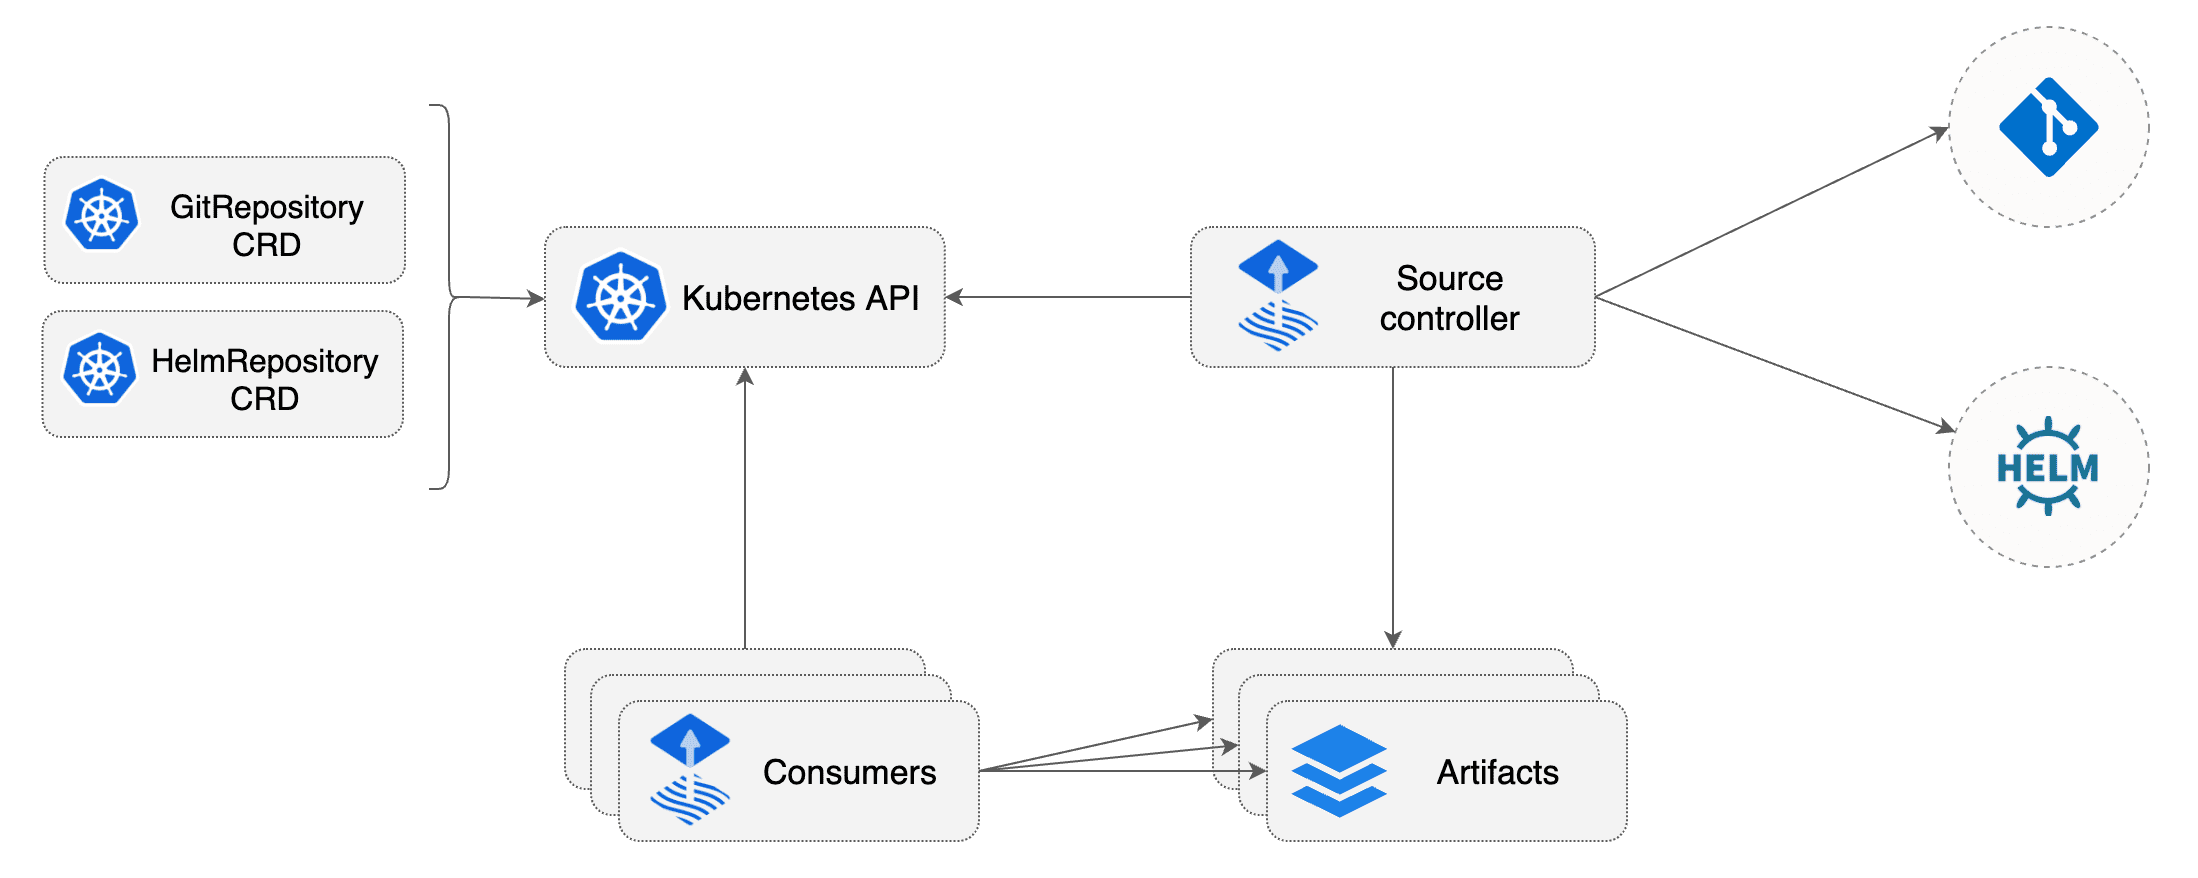
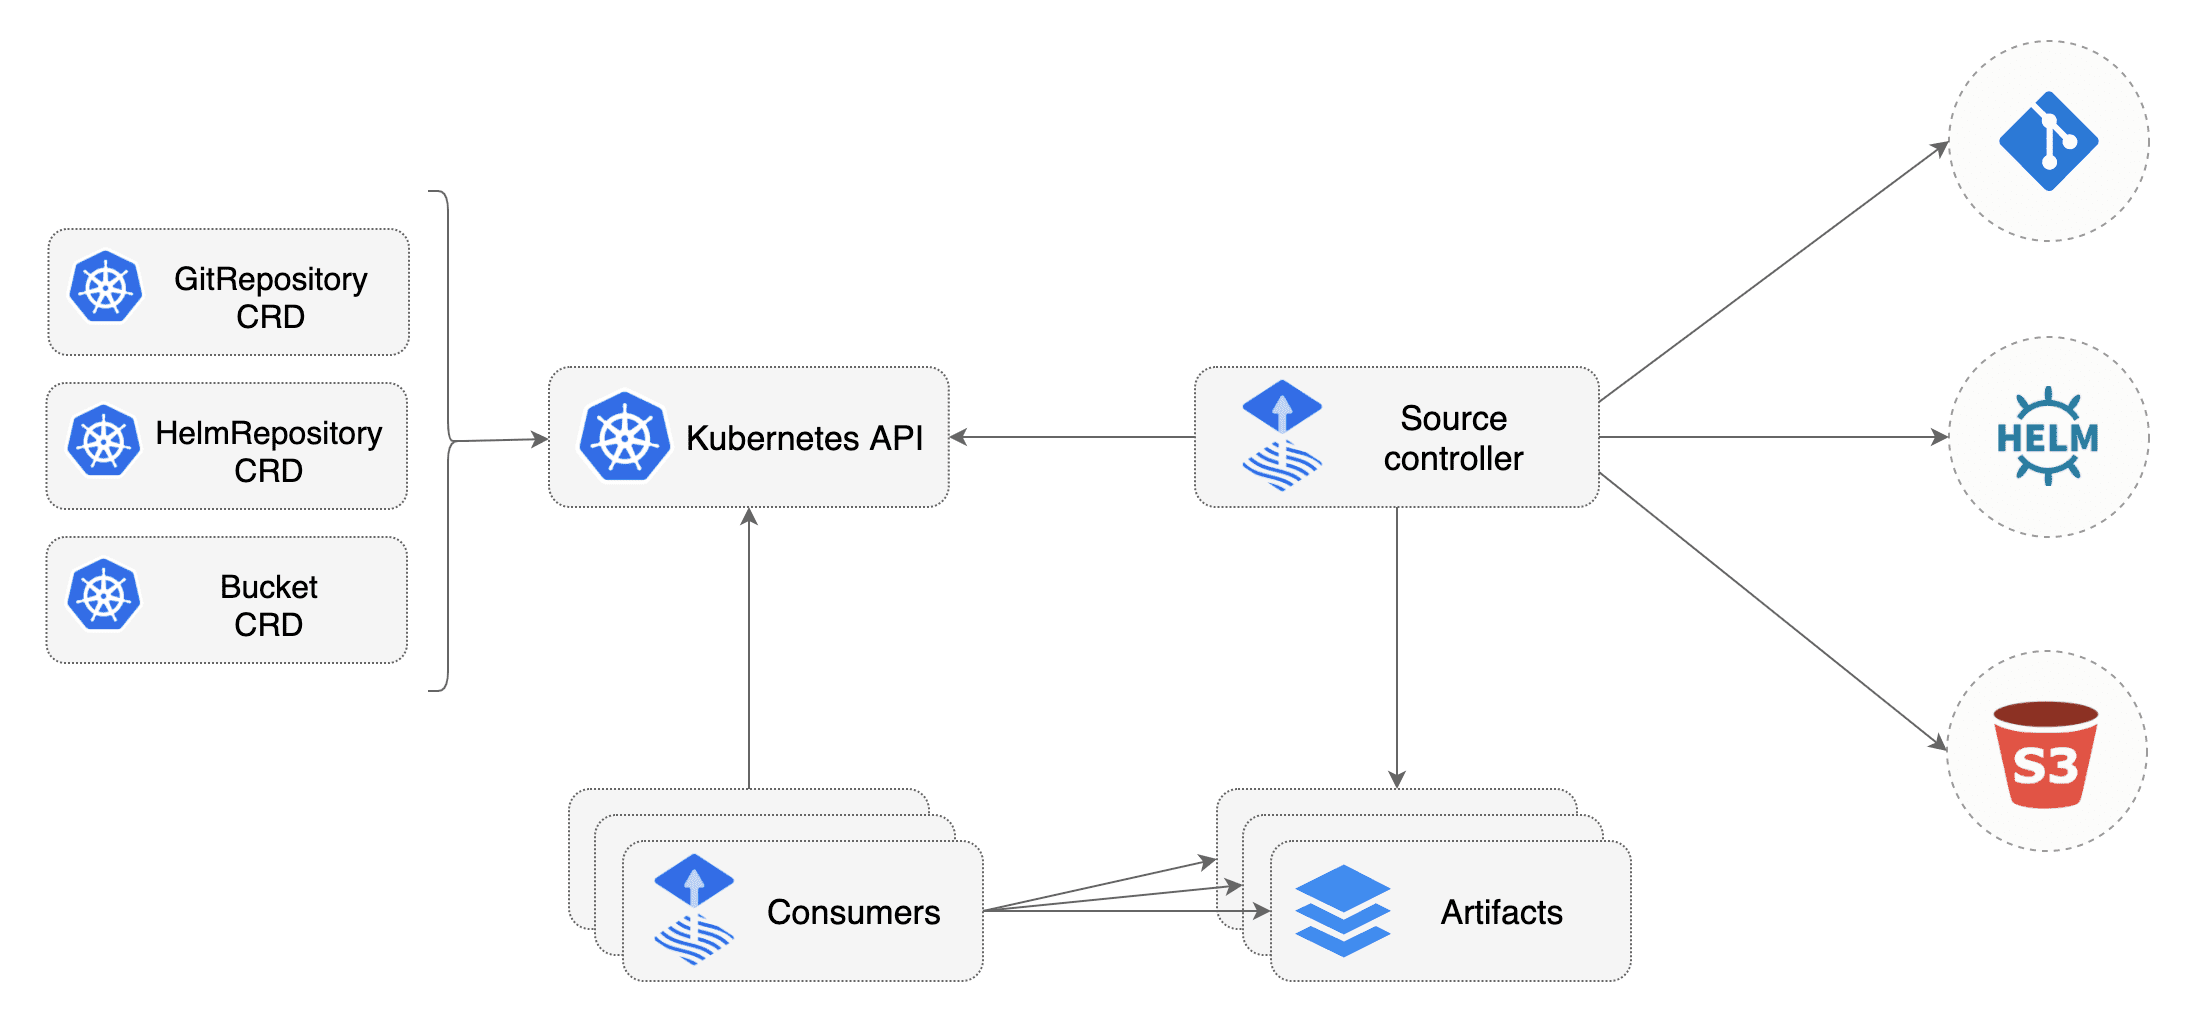
Add Bucket type to source API spec

diff --git a/docs/spec/v1alpha1/buckets.md b/docs/spec/v1alpha1/buckets.md
@@ -1,0 +1,232 @@
+# Object storage buckets
+
+The `Bucket` API defines a source for artifacts coming from S3 compatible storage
+such as Minio, Amazon S3, Google Cloud Storage, Alibaba Cloud OSS and others.
+
+## Specification
+
+Bucket:
+
+```go
+type BucketSpec struct {
+	// The S3 compatible storage provider name, default ('generic').
+	// +kubebuilder:validation:Enum=generic;aws
+	// +optional
+	Provider string `json:"provider,omitempty"`
+
+	// The bucket name.
+	// +required
+	BucketName string `json:"bucketName"`
+
+	// The bucket endpoint address.
+	// +required
+	Endpoint string `json:"endpoint"`
+
+	// Insecure allows connecting to a non-TLS S3 HTTP endpoint.
+	// +optional
+	Insecure bool `json:"insecure,omitempty"`
+
+	// The bucket region.
+	// +optional
+	Region string `json:"region,omitempty"`
+
+	// The secret name containing the bucket accesskey and secretkey.
+	// +optional
+	SecretRef *corev1.LocalObjectReference `json:"secretRef,omitempty"`
+
+	// The interval at which to check for bucket updates.
+	// +required
+	Interval metav1.Duration `json:"interval"`
+
+	// The timeout for download operations, default ('20s').
+	// +optional
+	Timeout *metav1.Duration `json:"timeout,omitempty"`
+
+	// Ignore overrides the set of excluded patterns in the .sourceignore
+	// format (which is the same as .gitignore).
+	// +optional
+	Ignore *string `json:"ignore,omitempty"`
+}
+```
+
+Supported providers:
+
+```go
+const (
+	GenericBucketProvider string = "generic"
+	AmazonBucketProvider  string = "aws"
+)
+```
+
+### Status
+
+```go
+// BucketStatus defines the observed state of a bucket
+type BucketStatus struct {
+	// ObservedGeneration is the last observed generation.
+	// +optional
+	ObservedGeneration int64 `json:"observedGeneration,omitempty"`
+
+	// Conditions holds the conditions for the Bucket.
+	// +optional
+	Conditions []SourceCondition `json:"conditions,omitempty"`
+
+	// URL is the download link for the artifact output of the last Bucket sync.
+	// +optional
+	URL string `json:"url,omitempty"`
+
+	// Artifact represents the output of the last successful Bucket sync.
+	// +optional
+	Artifact *Artifact `json:"artifact,omitempty"`
+}
+```
+
+### Condition reasons
+
+```go
+const (
+	// BucketOperationSucceedReason represents the fact that the bucket listing
+	// and download operations succeeded.
+	BucketOperationSucceedReason string = "BucketOperationSucceed"
+
+	// BucketOperationFailedReason represents the fact that the bucket listing
+	// or download operations failed.
+	BucketOperationFailedReason string = "BucketOperationFailed"
+)
+```
+
+## Artifact
+
+The resource exposes the latest synchronized state from S3 as an artifact 
+in a gzip compressed TAR archive (`<bucket checksum>.tar.gz`).
+
+### Excluding files
+
+Git files (`.git/`, `.gitignore`, `.gitmodules`, and `.gitattributes`) are
+excluded from the archive by default, as well as some extensions (`.jpg, .jpeg,
+.gif, .png, .wmv, .flv, .tar.gz, .zip`)
+
+Excluding additional files from the archive is possible by adding a
+`.sourceignore` file in the root of the bucket. The `.sourceignore` file
+follows [the `.gitignore` pattern
+format](https://git-scm.com/docs/gitignore#_pattern_format), pattern
+entries may overrule default exclusions.
+
+Another option is to use the `spec.ignore` field, for example:
+
+```yaml
+apiVersion: source.toolkit.fluxcd.io/v1alpha1
+kind: Bucket
+metadata:
+  name: podinfo
+spec:
+  ignore: |
+    # exclude all
+    /*
+    # include deploy dir
+    !/deploy
+    # exclude file extensions from deploy dir
+    /deploy/**/*.md
+    /deploy/**/*.txt
+```
+
+When specified, `spec.ignore` overrides the default exclusion list.
+
+## Spec examples
+
+### Static authentication
+
+Authentication credentials can be provided with a Kubernetes secret that contains
+`accesskey` and `secretkey` fields:
+
+```yaml
+apiVersion: source.toolkit.fluxcd.io/v1alpha1
+kind: Bucket
+metadata:
+  name: podinfo
+  namespace: gitops-system
+spec:
+  interval: 1m
+  provider: generic
+  bucketName: podinfo
+  endpoint: minio.minio.svc.cluster.local:9000
+  insecure: true
+  secretRef:
+    name: minio-credentials
+---
+apiVersion: v1
+kind: Secret
+metadata:
+  name: minio-credentials
+  namespace: gitops-system
+type: Opaque
+data:
+  accesskey: <BASE64> 
+  secretkey: <BASE64> 
+```
+
+> **Note:** that for Google Cloud Storage you have to enable
+> S3 compatible access in your GCP project.
+
+### AWS IAM authentication
+
+When the provider is `aws` and the `secretRef` is not specified,
+the credentials are retrieve from the EC2 service:
+
+```yaml
+apiVersion: source.toolkit.fluccd.io/v1alpha1
+kind: Bucket
+metadata:
+  name: podinfo
+  namespace: gitops-system
+spec:
+  interval: 5m
+  provider: aws
+  bucketName: podinfo
+  endpoint: s3.amazonaws.com
+  region: us-east-1
+  timeout: 30s
+```
+
+> **Note:** that on EKS you have to create an IAM role for the source-controller
+> service account that grants access to the bucket.
+
+## Status examples
+
+Successful download:
+
+```yaml
+  status:
+    artifact:
+      checksum: b249024b8544521792a079c4037d0a06dd0497a9
+      lastUpdateTime: "2020-09-18T08:34:49Z"
+      path: bucket/gitops-system/podinfo/aeaba8b6dd51c53084f99b098cfae4f5148ad410.tar.gz
+      revision: aeaba8b6dd51c53084f99b098cfae4f5148ad410
+      url: http://localhost:9090/bucket/gitops-system/podinfo/aeaba8b6dd51c53084f99b098cfae4f5148ad410.tar.gz
+    conditions:
+    - lastTransitionTime: "2020-09-18T08:34:49Z"
+      message: 'Fetched revision: aeaba8b6dd51c53084f99b098cfae4f5148ad410'
+      reason: BucketOperationSucceed
+      status: "True"
+      type: Ready
+    observedGeneration: 2
+    url: http://localhost:9090/bucket/gitops-system/podinfo/latest.tar.gz
+```
+
+Failed download:
+
+```yaml
+status:
+  conditions:
+  - lastTransitionTime: "2020-09-18T08:34:49Z"
+    message: "bucket 'test' not found"
+    reason: BucketOperationFailed
+    status: "False"
+    type: Ready
+```
+
+Wait for ready condition:
+
+```bash
+kubectl -n gitios-system wait bucket/podinfo --for=condition=ready --timeout=1m
+```

diff --git a/docs/spec/v1alpha1/README.md b/docs/spec/v1alpha1/README.md
@@ -9,7 +9,8 @@ This is the v1alpha1 API specification for defining the desired state sources of
   + [GitRepository](gitrepositories.md)
   + [HelmRepository](helmrepositories.md)
   + [HelmChart](helmcharts.md)
-
+  + [Bucket](buckets.md)
+  
 ## Implementation
 
 * [source-controller](https://github.com/fluxcd/source-controller/)
